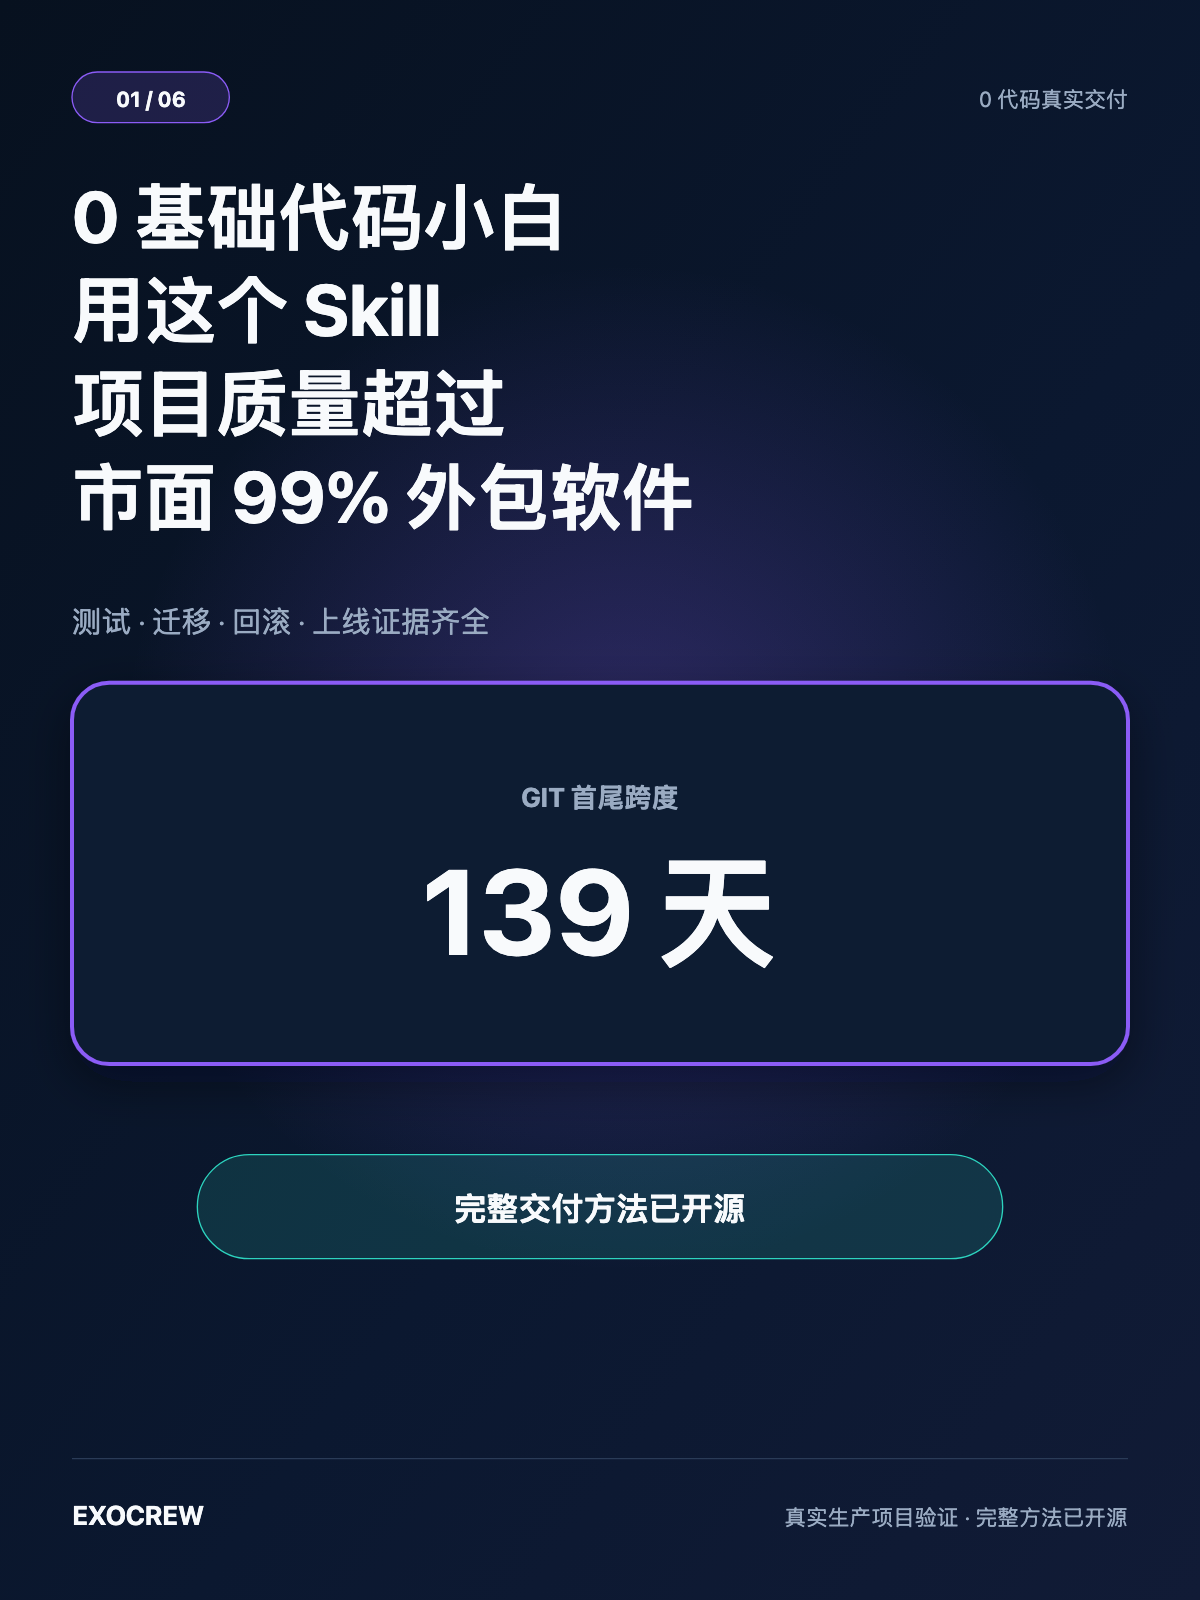
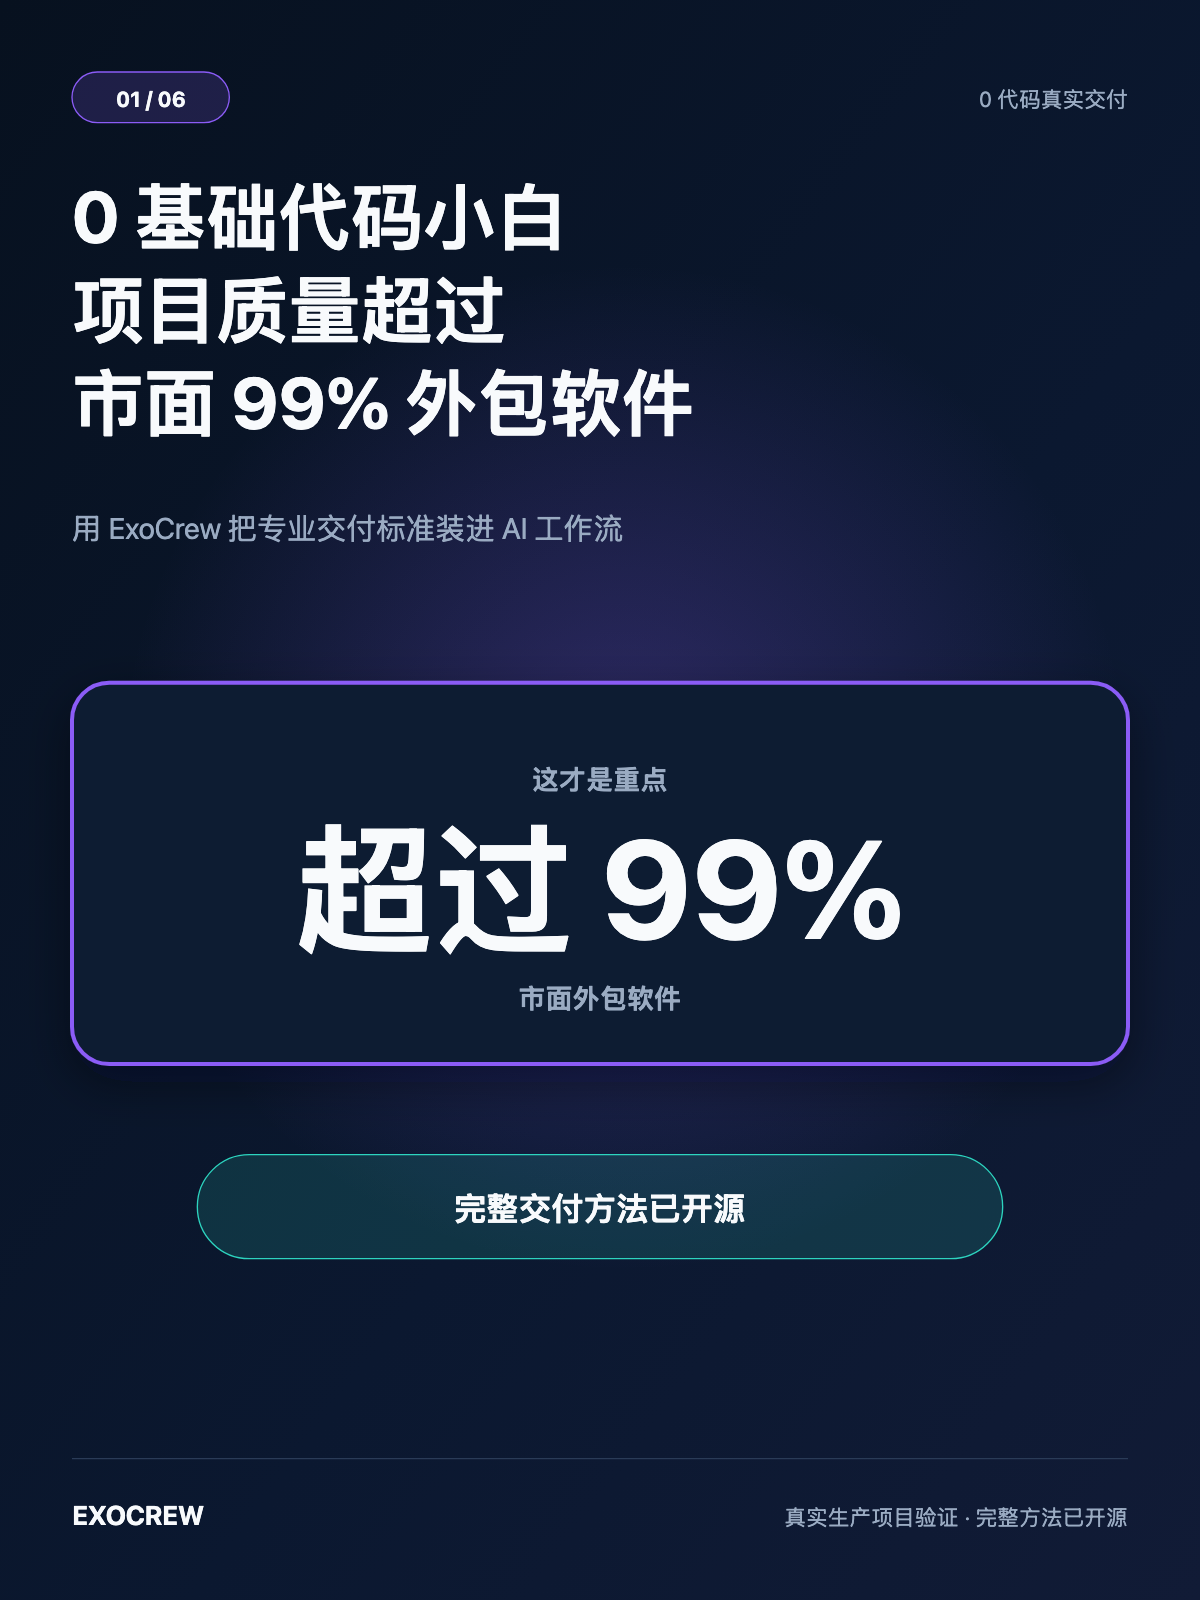
Make 99 percent the Xiaohongshu focal point

diff --git a/docs/launch/xiaohongshu/caption.md b/docs/launch/xiaohongshu/caption.md
@@ -10,7 +10,7 @@
 
 先说结论：0 基础的代码小白用这个 Skill，能把项目质量做到超过市面上 99% 的外包软件。
 
-我从 0 代码经验起步，借助 Codex，在约四个月里独立推进出一套真正上线、持续运行的复杂企业业务系统。仓库可独立核验的 Git 首尾跨度是 139 天。
+我从 0 代码经验起步，借助 Codex，独立推进出一套真正上线、持续运行的复杂企业业务系统。
 
 一开始我也以为：把功能描述清楚，AI 把代码写出来，项目就算完成了。
 